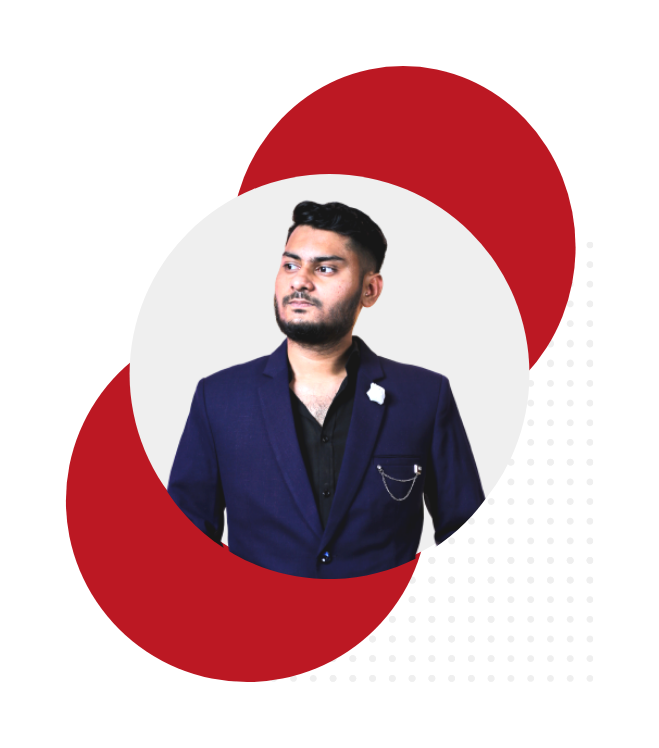
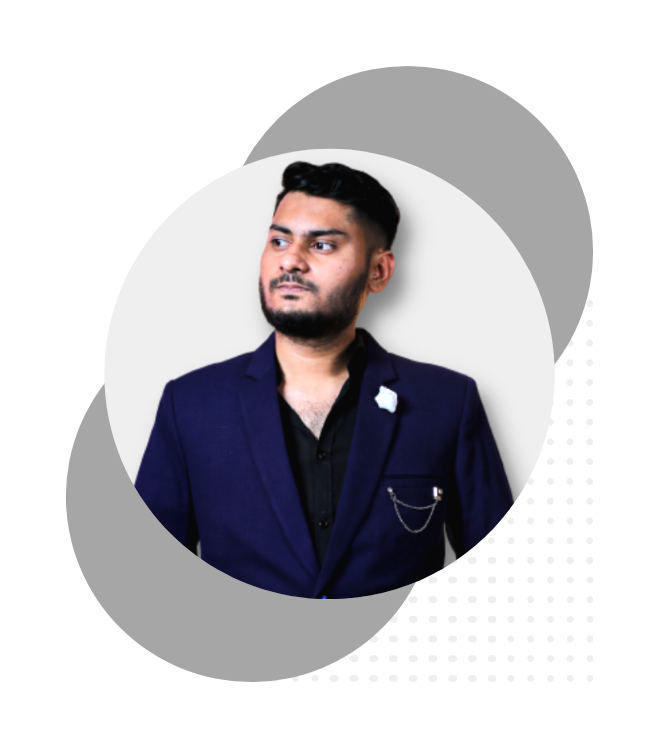
section two added

Changed region(s): [[0.091, 0.0615, 0.9105, 0.9225]]

diff --git a/index.html b/index.html
@@ -17,12 +17,25 @@
             <h1>Welcome to</h1>
             <h1><span class="new-color">Tousif's</span> World!</h1>
             <h3>Web Designer and Web Developer</h3>
-            <p>Hello! I'm a Professional Web Designer and Web Developer. You can hire me for your projects. I will design and develop any website for you. My priority is your satisfaction.</p>
+            <p style="padding-bottom: 5%;">Hello! I'm a Professional Web Designer and Web Developer. You can hire me for your projects. I will design and develop any website for you. My priority is your satisfaction.</p>
             <a class="hire-button" target="_blank"href="https://www.linkedin.com/in/tousif-rahman-79881720a/">Hire Me</a>
         </div>
         <div class="half-width">
             <img src="images/mainf.png" alt="">
         </div>
+    </section>
+    <section class="about-me">
+        <div class="half-width">
+            <img src="images/mainsec.png" alt="">
+        </div>
+        <div class="half-width">
+            <h1>About Me</h1>
+            <p style="padding-right: 20%; padding-bottom: 5%;">I'm Md. Tousif Rahman. A professional Web designer and Web Developer. Also I'm student of Bsc(computer science) at Port City International university. I just finished my first year and doing web development course with Programming Hero.</p>
+            <a class="download-button" target="_blank"href="https://drive.google.com/file/d/1GddFczCWpRjdrhNjWk7ECzubsDItSINj/view">Download CV</a>
+        </div>
+    </section>
+    <section class="">
+
     </section>
 </body>
 </html>

diff --git a/style.css b/style.css
@@ -10,10 +10,11 @@ h1{
 }
 section{
     display: flex;
+    margin-bottom: 0px;
 }
 .half-width{
     width: 50%;
-    padding-left: 8%;
+    padding-left: 10%;
 }
 .half-width img{
     width: 80%;
@@ -27,6 +28,24 @@ section{
     border-radius: 25px;
 }
 .top-banner{
-    background-image: url(images/back1.png);
+    background-image: url(images/back-img.png);
     background-repeat: no-repeat;
+    background-size: cover;
+    width: 100vw;
+    height: 100vh;
+}
+.download-button{
+    text-decoration: none;
+    background-color: #bc1823;
+    padding: 10px 40px;
+    color: #efefef;
+    font-weight: 700px;
+    border-radius: 25px;
+}
+.about-me{
+    background-image: url(images/secback.png);
+    background-repeat: no-repeat;
+    background-size: cover;
+    width: 100vw;
+    height: 100vh;
 }
